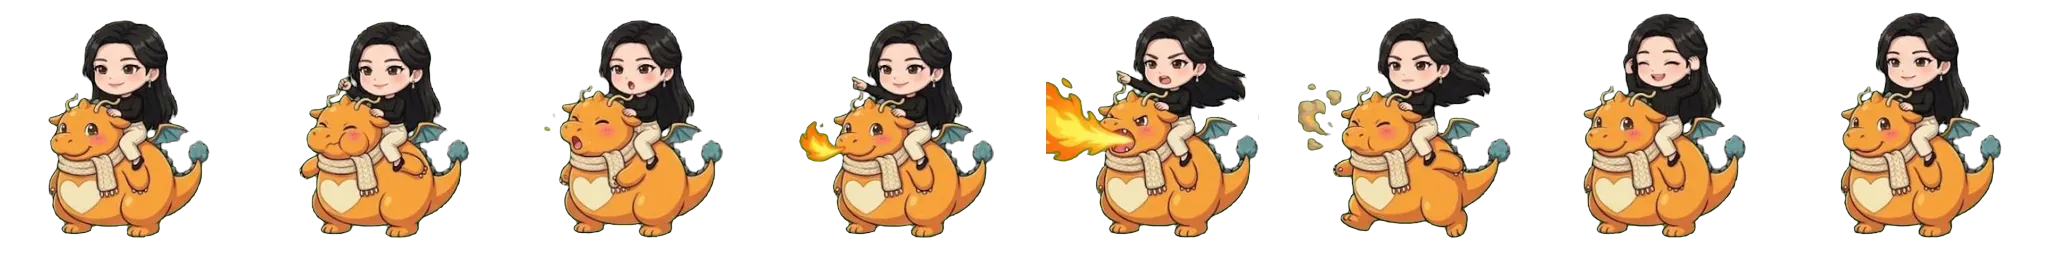
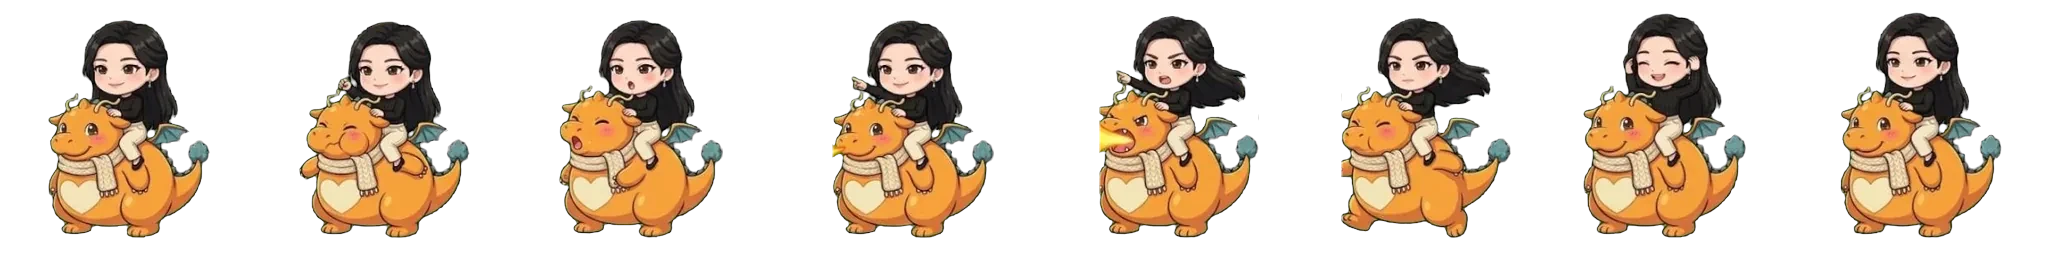
박나영 불 뿜기 · 급강하 연출 고품질로: 입에서 나오는 불길 띠 · 화상 불꽃 · 불 바닥 · 그림자 예고 · 쾅 불덩이
- 불 뿜기: 박나뇽 입 위치(띠 칸마다)에서 실제 부채꼴 끝까지 만화풍 불길 띠(8칸) 두 겹 + 일렁이는 불빛 + 입 섬광 + 불티 + 끝 연기
- 공격 띠 h_dragon_attack: 왼쪽으로 뿜던 그림 속 불·연기를 지움 (진상은 위에서 오므로) · ART_VER 2
- 화상: 허리 양옆에 작은 불꽃 혀 (겹 수만큼 · 3겹부터 더 밝게) · 불 바닥: 그을린 자국 + 불꽃 혀 여러 개
- 급강하: 진짜 박나뇽 그림이 잔상 끌며 솟구침 → 커지는 그림자·빨라지는 경고 고리 → 불꼬리·속도선과 내리꽂힘 → 충격파·불덩이(6칸)·파편·불티·연기 → 폴짝 복귀 · 불꽃 고리는 불꽃 혀로
- 시간은 sim 장판(z.t)에 맞춰 ×2 에서도 딱 맞음 · 연출 줄이기(rm)면 입자·잔상·흔들림 줄임
- 새 그림 fx/dragon_breath·flame·burst.webp (절차 생성 · 42/20/32KB)

Claude-Session: https://claude.ai/code/session_016zscpnQTe5fAmJRC7J2Wse

diff --git a/public/langbang/render.js b/public/langbang/render.js
@@ -27,6 +27,8 @@ const TAU = Math.PI * 2;
 export const HERO_BOX = 82; // 영웅 그림 상자 크기(논리 px) — 실제 캐릭터는 약 85%
 const FEET = 0.92; // 그림 안에서 발 위치 (위에서부터 비율)
 const FEET_OFF = 0.3; // 몸 중심(y) → 발까지 거리 (상자 대비)
+// 박나뇽 입 위치 (그림 256칸 안 좌표): 공격 띠 8칸마다 · 가만히 있는 그림 — 불 뿜기가 입에서 나오게 (kitfx.js breath)
+const DRAGON_MOUTH = [[58, 140], [60, 140], [64, 138], [66, 149], [76, 139], [70, 138], [60, 140], [60, 140]], DRAGON_MOUTH_IDLE = [60, 142];
 
 const PROJ_COLOR = {
   notice: '#ffd23f', warn: '#ff6b5a', bullet: '#6dffb0', flower: '#ff9fd0', bottle: '#7be38f', wink: '#ff5fcf', cane: '#e0b27a', swear: '#ff9a3c',
@@ -331,6 +333,7 @@ export class Renderer {
     for (let i = 0; i < 4; i++) list['bar' + i] = `/img/lb/ui/barricade_${i}.webp`;
     for (const k of ['heart', 'fire', 'electric', 'gold', 'shock', 'spark']) list['fx_' + k] = `/img/lb/fx/${k === 'shock' ? 'shock_ring' : k === 'spark' ? 'hit_spark' : 'explo_' + k}.webp`;
     for (const n of PAINTED_MORE) list['p_' + n] = `/img/lb/fx/p_${n}.webp`;
+    for (const n of ['breath', 'flame', 'burst']) list['dr_' + n] = `/img/lb/fx/dragon_${n}.webp`; // 박나뇽 불 (불 뿜기 줄기 · 불꽃 혀 · 쾅 불덩이 — 8·8·6칸 띠, kitfx.js)
     list.pCrown = '/img/lb/fx/p_crown.webp'; list.pBottle = '/img/lb/fx/p_bottle.webp'; list.pBottleRage = '/img/lb/fx/p_bottle_rage.webp'; // 그린 투사체 (없으면 코드로 그린 것)
     for (const k of ['talk', 'power', 'charm', 'booze']) list['attr_' + k] = `/img/lb/attr/${k}.webp`; // 속성 배지 그림
     list.bg = '/img/lb/bg.webp';
@@ -899,6 +902,8 @@ export class Renderer {
     make('glowGold', 120, 120, (x, w, h) => glow(x, w / 2, h / 2, 60, 'rgba(255,200,60,0.5)'));
     make('glowPink', 120, 120, (x, w, h) => glow(x, w / 2, h / 2, 60, 'rgba(255,90,200,0.5)'));
     make('glowCyan', 120, 120, (x, w, h) => glow(x, w / 2, h / 2, 60, 'rgba(90,220,255,0.45)'));
+    make('glowFire', 120, 120, (x, w, h) => { const g = x.createRadialGradient(w / 2, h / 2, 0, w / 2, h / 2, w / 2); g.addColorStop(0, 'rgba(255,236,170,0.95)'); g.addColorStop(0.22, 'rgba(255,160,50,0.6)'); g.addColorStop(0.55, 'rgba(255,80,15,0.22)'); g.addColorStop(1, 'rgba(255,40,0,0)'); x.fillStyle = g; x.fillRect(0, 0, w, h); }); // 박나뇽 불빛 (더하기 합성용)
+    make('smokeSoft', 64, 64, (x, w, h) => { const g = x.createRadialGradient(w / 2, h / 2, 0, w / 2, h / 2, w / 2); g.addColorStop(0, 'rgba(62,50,46,0.8)'); g.addColorStop(0.6, 'rgba(52,42,40,0.35)'); g.addColorStop(1, 'rgba(40,34,34,0)'); x.fillStyle = g; x.fillRect(0, 0, w, h); }); // 불 뒤 검은 연기
     make('shadow', 60, 20, (x, w, h) => {
       const g = x.createRadialGradient(w / 2, h / 2, 1, w / 2, h / 2, w / 2);
       g.addColorStop(0, 'rgba(0,0,0,0.5)'); g.addColorStop(1, 'rgba(0,0,0,0)');
@@ -2162,6 +2167,7 @@ export class Renderer {
       const hx = h.out || h.restT > 0 ? h.px : h.rx;
       const hy = h.out || h.restT > 0 ? h.py : h.y;
       if (ui && ui.drag && ui.drag.h === h) continue; // 끌고 있는 영웅은 손가락 위치에 따로 그린다
+      if (h.id === 'dragon' && this.kit && this.kit.diveHidden(g, h)) continue; // 박나영 급강하: 하늘로 날아간 동안은 자리에 없다 (kitfx.js 가 날아가는 모습을 그린다)
       const feet = hy + box * FEET_OFF;
       // 발판 빛
       const gl = g.rallyT > 0 ? this.projSprites.glowGold : h.rage ? this.projSprites.glowRed : h.charmT > 0 ? this.projSprites.glowPink : this.projSprites.glowGold;
@@ -2274,6 +2280,7 @@ export class Renderer {
           const bw = box * fit.k;
           this.tf(hx, feet + (h.tiredT > 0 ? 3 : 0), 0, 1, 1);
           cx.drawImage(hstrip, fi * fw, 0, fw, fh, -box / 2 + fit.dx * box, -box * FEET + fit.dy * box, bw, bw);
+          if (h.id === 'dragon') { const m = DRAGON_MOUTH[fi] || DRAGON_MOUTH_IDLE; h._mouth = { x: hx - box / 2 + fit.dx * box + (m[0] / 256) * bw, y: feet + (h.tiredT > 0 ? 3 : 0) - box * FEET + fit.dy * box + (m[1] / 256) * bw }; } // 불 뿜기가 나오는 입 (kitfx.js)
           usedStrip = true;
         }
       }
@@ -2348,6 +2355,7 @@ export class Renderer {
         { const ck = h._castAt && !cp ? (performance.now() - h._castAt) / 250 : 9; if (ck < 1) { const s0 = 1 + Math.sin(ck * Math.PI) * 0.15; this.tf(hx + dx, feet + bob, rot, sx * s0, sy * s0); } else this.tf(hx + dx, feet + bob, rot, sx, sy); } // (시전 동작이 없는 멤버만 톡 커지기)
         cx.globalAlpha = h.stunT > 0 ? 0.75 : 1;
         cx.drawImage(sp.c, -box / 2, -box * FEET, box, box);
+        if (h.id === 'dragon') { const m = DRAGON_MOUTH_IDLE, lx = -box / 2 + (m[0] / 256) * box, ly = -box * FEET + (m[1] / 256) * box, c = Math.cos(rot), s = Math.sin(rot); h._mouth = { x: hx + dx + lx * sx * c - ly * sy * s, y: feet + bob + lx * sx * s + ly * sy * c }; }
         if (h.freezeT > 0 && h.stunT > 0 && sp.f) { cx.globalAlpha = 0.5; cx.drawImage(sp.f, -box / 2, -box * FEET, box, box); } // 7장 빙결: 하얗게 언 모습
         const hk2 = h._hitAt ? (performance.now() - h._hitAt) / 160 : 9;
         if (hk2 < 1 && sp.f) { cx.globalCompositeOperation = 'lighter'; cx.globalAlpha = 0.55 * (1 - hk2); cx.drawImage(sp.f, -box / 2, -box * FEET, box, box); cx.globalCompositeOperation = 'source-over'; }
@@ -2940,6 +2948,28 @@ export class Renderer {
           this.tf(p.x, p.y, p.type === 'star' ? p.rot : 0, p.size / 10, p.size / 10);
           cx.globalAlpha = Math.min(1, a * 2);
           cx.drawImage(s.c, -8, -8, 16, 16);
+          break;
+        }
+        case 'ember': { // 불티: 빛 번짐 + 진행 방향 꼬리 (더하기)
+          const g0 = P.glowFire, r = p.size * (1.2 + a);
+          cx.globalCompositeOperation = 'lighter';
+          this.tf(p.x, p.y, 0, 1, 1); cx.globalAlpha = a * 0.55; cx.drawImage(g0.c, -r * 2, -r * 2, r * 4, r * 4);
+          this.tf(p.x, p.y, Math.atan2(p.vy, p.vx), 1, 1); cx.globalAlpha = Math.min(1, a * 1.6); cx.fillStyle = a > 0.5 ? '#fff6c8' : '#ffb347';
+          cx.fillRect(-p.size * 2.2, -p.size * 0.35, p.size * 2.6, p.size * 0.7);
+          cx.globalCompositeOperation = 'source-over';
+          break;
+        }
+        case 'smoke': { // 연기: 부풀며 옅어짐
+          const sm = P.smokeSoft, r = p.size * (1 + (1 - a) * 1.6);
+          this.tf(p.x, p.y, p.rot, 1, 1); cx.globalAlpha = Math.min(1, a * 1.4) * 0.6; cx.drawImage(sm.c, -r, -r, r * 2, r * 2);
+          break;
+        }
+        case 'fire': { // 불꽃 혀 한 개 (띠 dr_flame) — 위로 솟으며 작아짐
+          const im = this.images.dr_flame;
+          if (!imgOk(im)) break;
+          const fw = im.naturalWidth / 8, h0 = p.size * (0.5 + 0.6 * a), fi = Math.floor((p.max - p.life) * 16 + p.rot * 3) % 8;
+          this.tf(p.x, p.y, 0, 1, 1); cx.globalAlpha = Math.min(1, a * 2);
+          cx.drawImage(im, fi * fw, 0, fw, im.naturalHeight, -h0 * 0.33, -h0, h0 * 0.67, h0);
           break;
         }
         case 'flame': {

diff --git a/public/langbang/index.html b/public/langbang/index.html
@@ -28,14 +28,14 @@
   <link rel="stylesheet" href="https://cdn.jsdelivr.net/gh/orioncactus/pretendard@v1.3.9/dist/web/variable/pretendardvariable-dynamic-subset.min.css">
   <style>#bootld{position:fixed;inset:0;z-index:90;background:#0b0a16;display:grid;place-items:end center;transition:opacity .35s}#bootld .bl-bg{position:absolute;inset:0;width:100%;height:100%;object-fit:cover;opacity:.55}#bootld.out{opacity:0;pointer-events:none}</style>
   <link rel="preload" as="image" href="/img/lb/title_poster.jpg?v=3" fetchpriority="high">
-  <link rel="stylesheet" href="/langbang/style.css?v=20261009c">
-  <link rel="stylesheet" href="/langbang/friends.css?v=20261009c">
-  <link rel="stylesheet" href="/langbang/tower.css?v=20261009c">
-  <link rel="stylesheet" href="/langbang/raid2.css?v=20261009c">
-  <link rel="stylesheet" href="/langbang/bonkae.css?v=20261009c">
-  <link rel="stylesheet" href="/langbang/transit.css?v=20261009c">
-  <link rel="stylesheet" href="/langbang/tutorial.css?v=20261009c">
-  <link rel="stylesheet" href="/langbang/hw.css?v=20261009c">
+  <link rel="stylesheet" href="/langbang/style.css?v=20261010k">
+  <link rel="stylesheet" href="/langbang/friends.css?v=20261010k">
+  <link rel="stylesheet" href="/langbang/tower.css?v=20261010k">
+  <link rel="stylesheet" href="/langbang/raid2.css?v=20261010k">
+  <link rel="stylesheet" href="/langbang/bonkae.css?v=20261010k">
+  <link rel="stylesheet" href="/langbang/transit.css?v=20261010k">
+  <link rel="stylesheet" href="/langbang/tutorial.css?v=20261010k">
+  <link rel="stylesheet" href="/langbang/hw.css?v=20261010k">
 </head>
 <body>
   <div id="stage">
@@ -100,7 +100,7 @@
     <div id="toast" hidden></div>
   </div>
   <noscript>자바스크립트를 켜야 게임을 할 수 있어요.</noscript>
-  <script type="importmap">{"imports": {"/langbang/game.js": "/langbang/game.js?v=20261009c", "/langbang/season.js": "/langbang/season.js?v=20261009c", "/langbang/data.js": "/langbang/data.js?v=20261009c", "/langbang/sim.js": "/langbang/sim.js?v=20261009c", "/langbang/render.js": "/langbang/render.js?v=20261009c", "/langbang/live.js": "/langbang/live.js?v=20261009c", "/langbang/api.js": "/langbang/api.js?v=20261009c", "/langbang/audio.js": "/langbang/audio.js?v=20261009c", "/langbang/share.js": "/langbang/share.js?v=20261009c", "/langbang/flavor.js": "/langbang/flavor.js?v=20261009c", "/langbang/friends.js": "/langbang/friends.js?v=20261009c", "/langbang/tower.js": "/langbang/tower.js?v=20261009c", "/langbang/tower-ui.js": "/langbang/tower-ui.js?v=20261009c", "/langbang/transit.js": "/langbang/transit.js?v=20261009c", "/langbang/hw-event.js": "/langbang/hw-event.js?v=20261009c", "/langbang/hw-sim.js": "/langbang/hw-sim.js?v=20261009c", "/langbang/hw-ui.js": "/langbang/hw-ui.js?v=20261009c", "/langbang/hw-fx.js": "/langbang/hw-fx.js?v=20261009c"}}</script>
-  <script type="module" src="/langbang/game.js?v=20261009c"></script>
+  <script type="importmap">{"imports": {"/langbang/game.js": "/langbang/game.js?v=20261010k", "/langbang/season.js": "/langbang/season.js?v=20261010k", "/langbang/data.js": "/langbang/data.js?v=20261010k", "/langbang/sim.js": "/langbang/sim.js?v=20261010k", "/langbang/render.js": "/langbang/render.js?v=20261010k", "/langbang/live.js": "/langbang/live.js?v=20261010k", "/langbang/api.js": "/langbang/api.js?v=20261010k", "/langbang/audio.js": "/langbang/audio.js?v=20261010k", "/langbang/share.js": "/langbang/share.js?v=20261010k", "/langbang/flavor.js": "/langbang/flavor.js?v=20261010k", "/langbang/friends.js": "/langbang/friends.js?v=20261010k", "/langbang/tower.js": "/langbang/tower.js?v=20261010k", "/langbang/tower-ui.js": "/langbang/tower-ui.js?v=20261010k", "/langbang/transit.js": "/langbang/transit.js?v=20261010k", "/langbang/hw-event.js": "/langbang/hw-event.js?v=20261010k", "/langbang/hw-sim.js": "/langbang/hw-sim.js?v=20261010k", "/langbang/hw-ui.js": "/langbang/hw-ui.js?v=20261010k", "/langbang/hw-fx.js": "/langbang/hw-fx.js?v=20261010k"}}</script>
+  <script type="module" src="/langbang/game.js?v=20261010k"></script>
 </body>
 </html>

diff --git a/public/langbang/data.js b/public/langbang/data.js
@@ -872,7 +872,7 @@ const ART_READY = new Set(['h_jungmin', 'h_junyoung', 'h_soyoung', 'h_jieun', 'h
 //  바뀐 파일만 적는다 (전부 붙이면 배포마다 모두 다시 받아서 전송량이 폭증) · 다시 바꾸면 숫자를 올린다
 export const ART_VER = {
   h_subin: 2, h_subin_attack: 2, 'dex/subin': 2, 'dexhq/subin': 2, 'dexhq/thumb/subin': 2,
-  h_donghan_attack: 2, h_eunok_attack: 2, e_boss_bestman_attack: 2, e_boss_bestman_skill: 2, e_boss_bestman_rage: 2,
+  h_donghan_attack: 2, h_eunok_attack: 2, h_dragon_attack: 2, e_boss_bestman_attack: 2, e_boss_bestman_skill: 2, e_boss_bestman_rage: 2,
 };
 export const artV = (u) => { const m = typeof u === 'string' && /^\/img\/lb\/([^?]+)\.webp$/.exec(u); return m && ART_VER[m[1]] ? `${u}?v=${ART_VER[m[1]]}` : u; };
 const ART = (n) => (ART_READY.has(n) ? artV(`/img/lb/${n}.webp`) : '');
